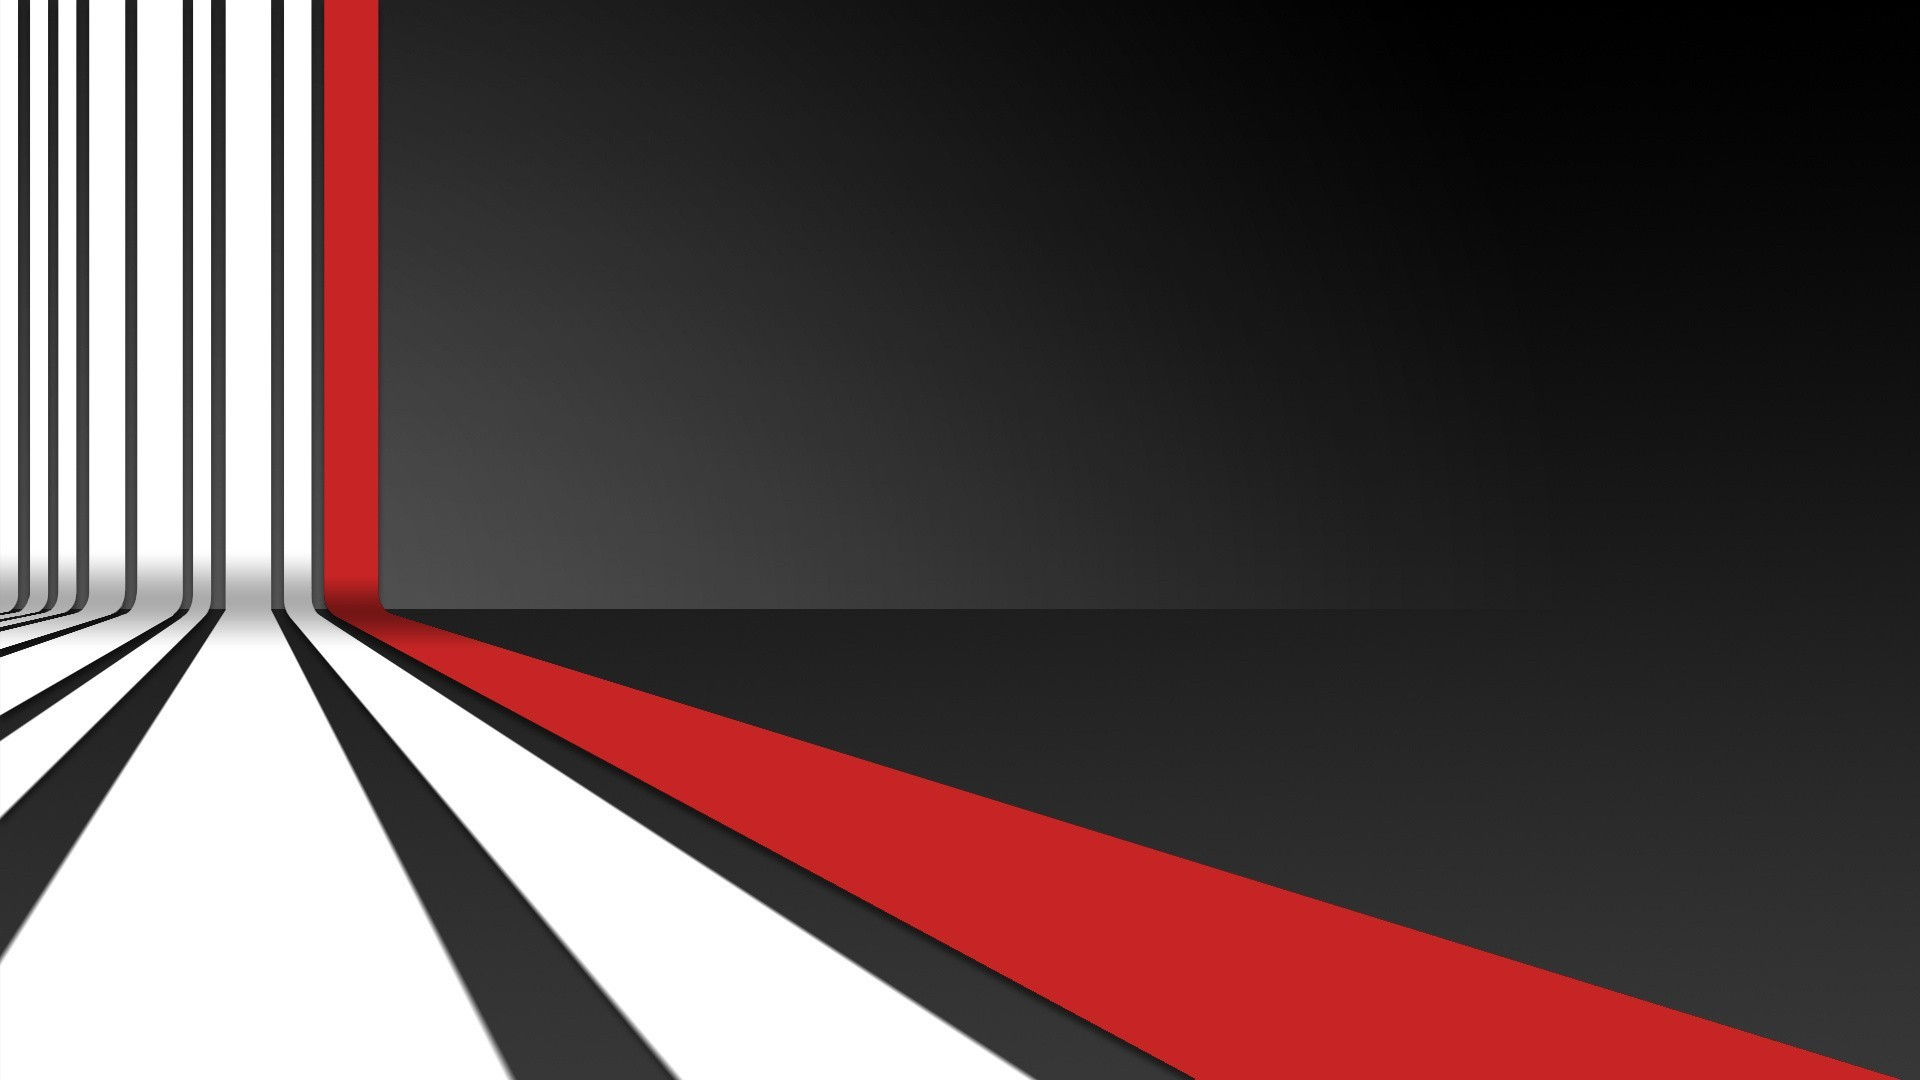
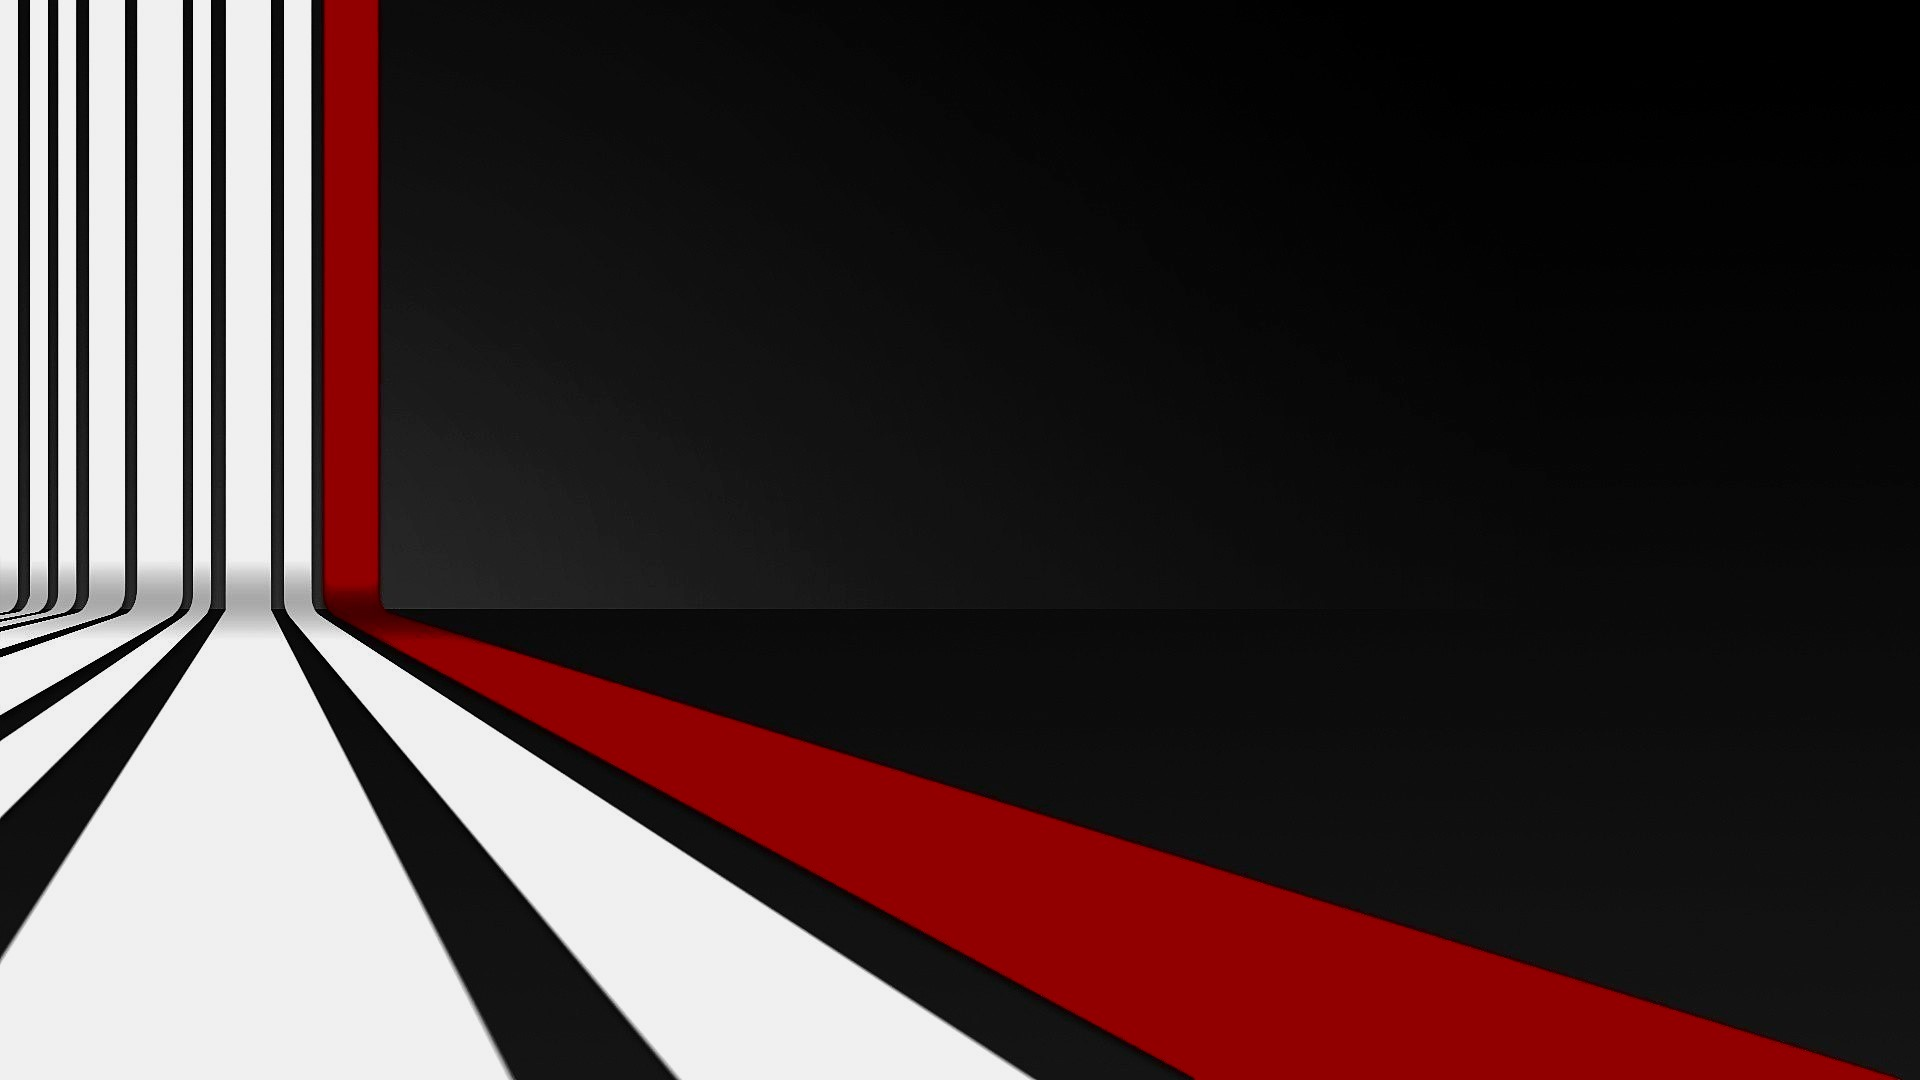
adding footer for website

diff --git a/index.html b/index.html
@@ -82,7 +82,7 @@
   </section>
   
 
-  <section class="team-management">
+  <section class="team-management pb-6">
     <div class="flex flex-col md:flex-row justify-around ">
 
       <!-- Main Team -->
@@ -289,7 +289,7 @@
     
         </div>
         <div>
-          <p class="text-white font-light">You can only add 15 Players on Substitution!</p>
+          <p class="text-gray-100 font-light">You can only add 15 Players on Substitution!</p>
         </div>
 
       </div>
@@ -313,6 +313,53 @@
 
 
   </section>
+
+
+  <footer class="bg-[#1E1E1E]">
+    <div
+      class="container flex justify-around items-center p-8 flex-col md:flex-row"
+    >
+  
+    <div class="bg-white p-4 flex flex-col items-center">
+      <img
+      class="w-40 pb-2 "
+      src="./img/Logo.png"
+      alt="logo"
+    />
+    <p class="text-xs w-32 text-center">Thank you for visiting our website! We appreciate your time and support. If you have any questions or feedback, feel free to reach out. We look forward to having you back soon!</p>
+    
+
+    </div>
+     
+    
+      <div class="flex gap-28 text-white md:flex-row">
+        <div class="mb-4">
+          <h1 class="text-xl font-medium pb-2">Quick Links</h1>
+          <ul>
+            <li class="pb-1 hover:underline transition-all duration-400 hover:cursor-pointer"> <a href="#">Home</a></li>
+            <li class="pb-1 hover:underline transition-all duration-400 hover:cursor-pointer"><a href="#">About Us</a></li>
+            <li class="pb-1 hover:underline transition-all duration-400 hover:cursor-pointer"><a href="#">Services</a></li>
+            <li class="pb-1 hover:underline transition-all duration-400 hover:cursor-pointer"><a href="#">Account</a></li>
+            <li class="pb-1 hover:underline transition-all duration-400 hover:cursor-pointer"><a href="#">Team</a></li>
+          </ul>
+        </div>
+
+    
+
+        <div class="mb-4">
+          <h1 class="text-xl font-medium pb-2">Social Media</h1>
+          <ul>
+            <li class="pb-1 hover:underline transition-all duration-400 hover:cursor-pointer"><i class="fa-brands fa-facebook pr-2"></i><a href="#">Facebook</a></li>
+            <a href="#"><li class="pb-1 hover:underline transition-all duration-400 hover:cursor-pointer"><i class="fa-brands fa-instagram pr-2"></i><a href="#">Instagram</a></li>
+            <a href="#"><li class="pb-1 hover:underline transition-all duration-400 hover:cursor-pointer"><i class="fa-brands fa-twitter pr-2"></i><a href="#">Twitter</a></li>
+          </ul>
+        </div>
+      </div>
+    </div>
+    <p class="text-white flex justify-end text-xs p-4">
+      2024 Codeshogun. All rights reserved
+    </p>
+  </footer>
 
 
 

diff --git a/style.css b/style.css
@@ -54,7 +54,7 @@ scroll-behavior: smooth;
     background-size:140%;
     background-position: center;
     background-size: cover;
-    filter: brightness(2) contrast(1,9) ; 
+   
 
 
  

diff --git a/script.js b/script.js
@@ -14,3 +14,8 @@
 
   
   closeMenu.addEventListener('click', toggleMenu);
+
+
+
+
+
